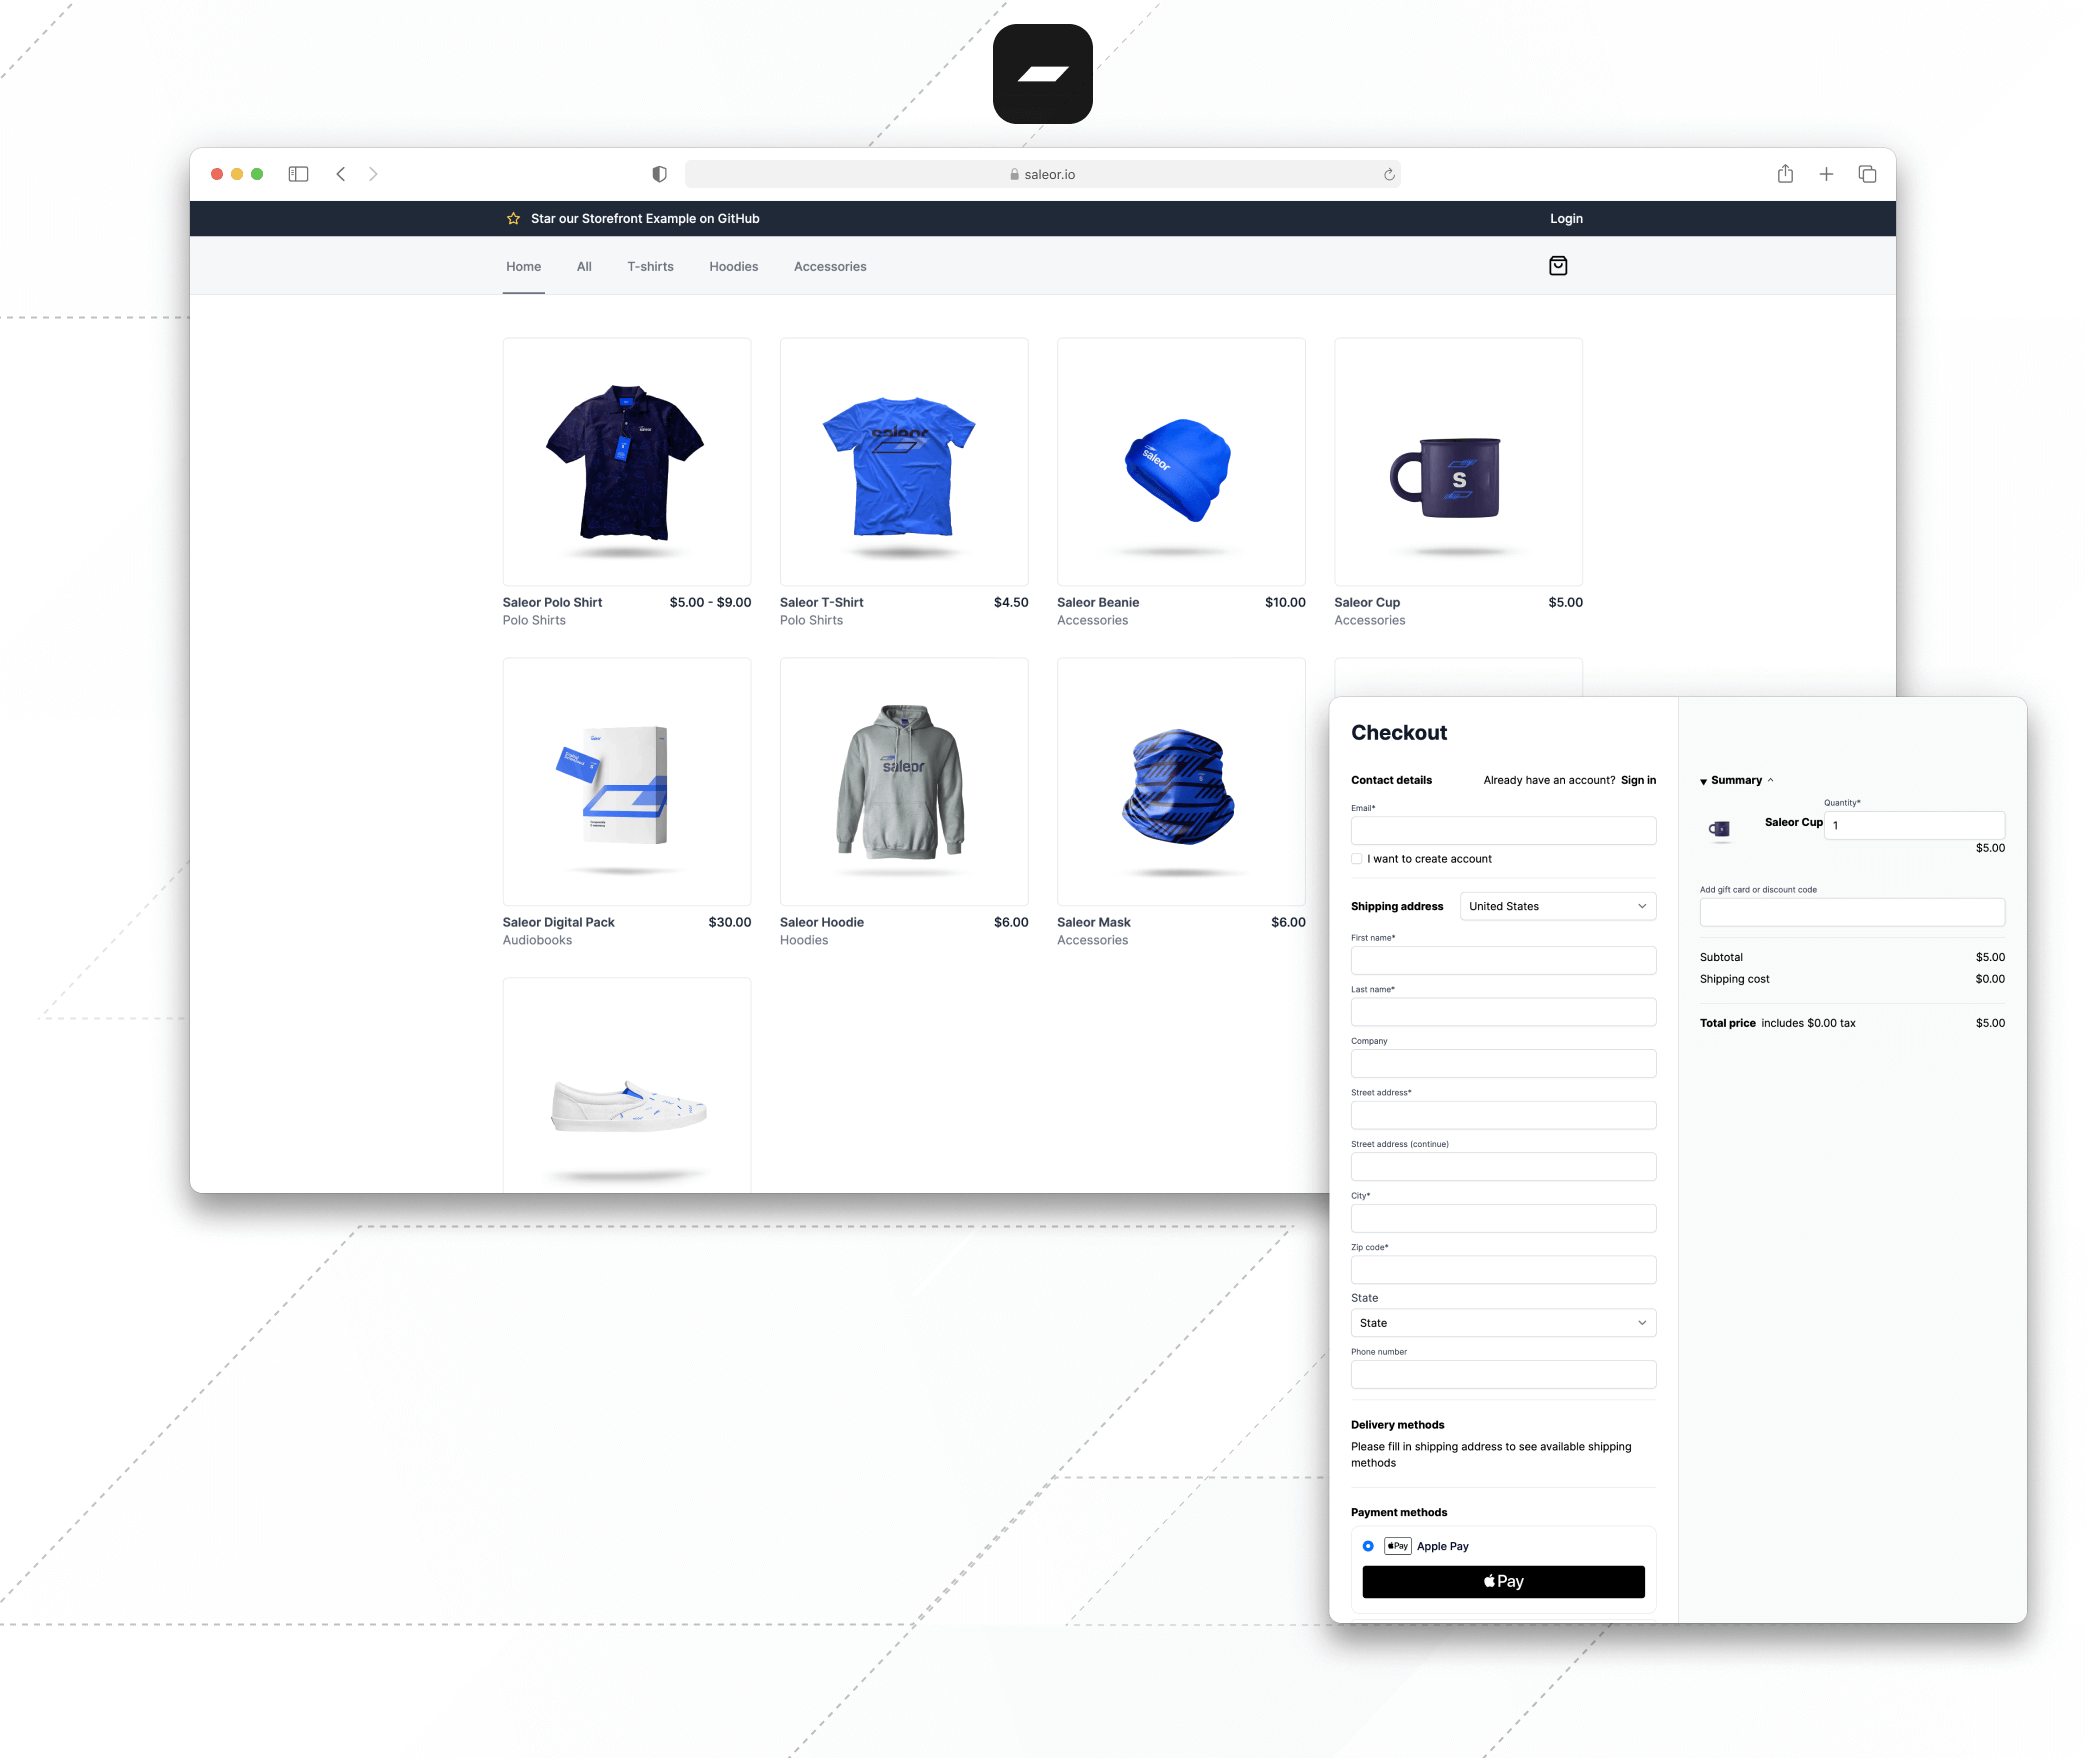
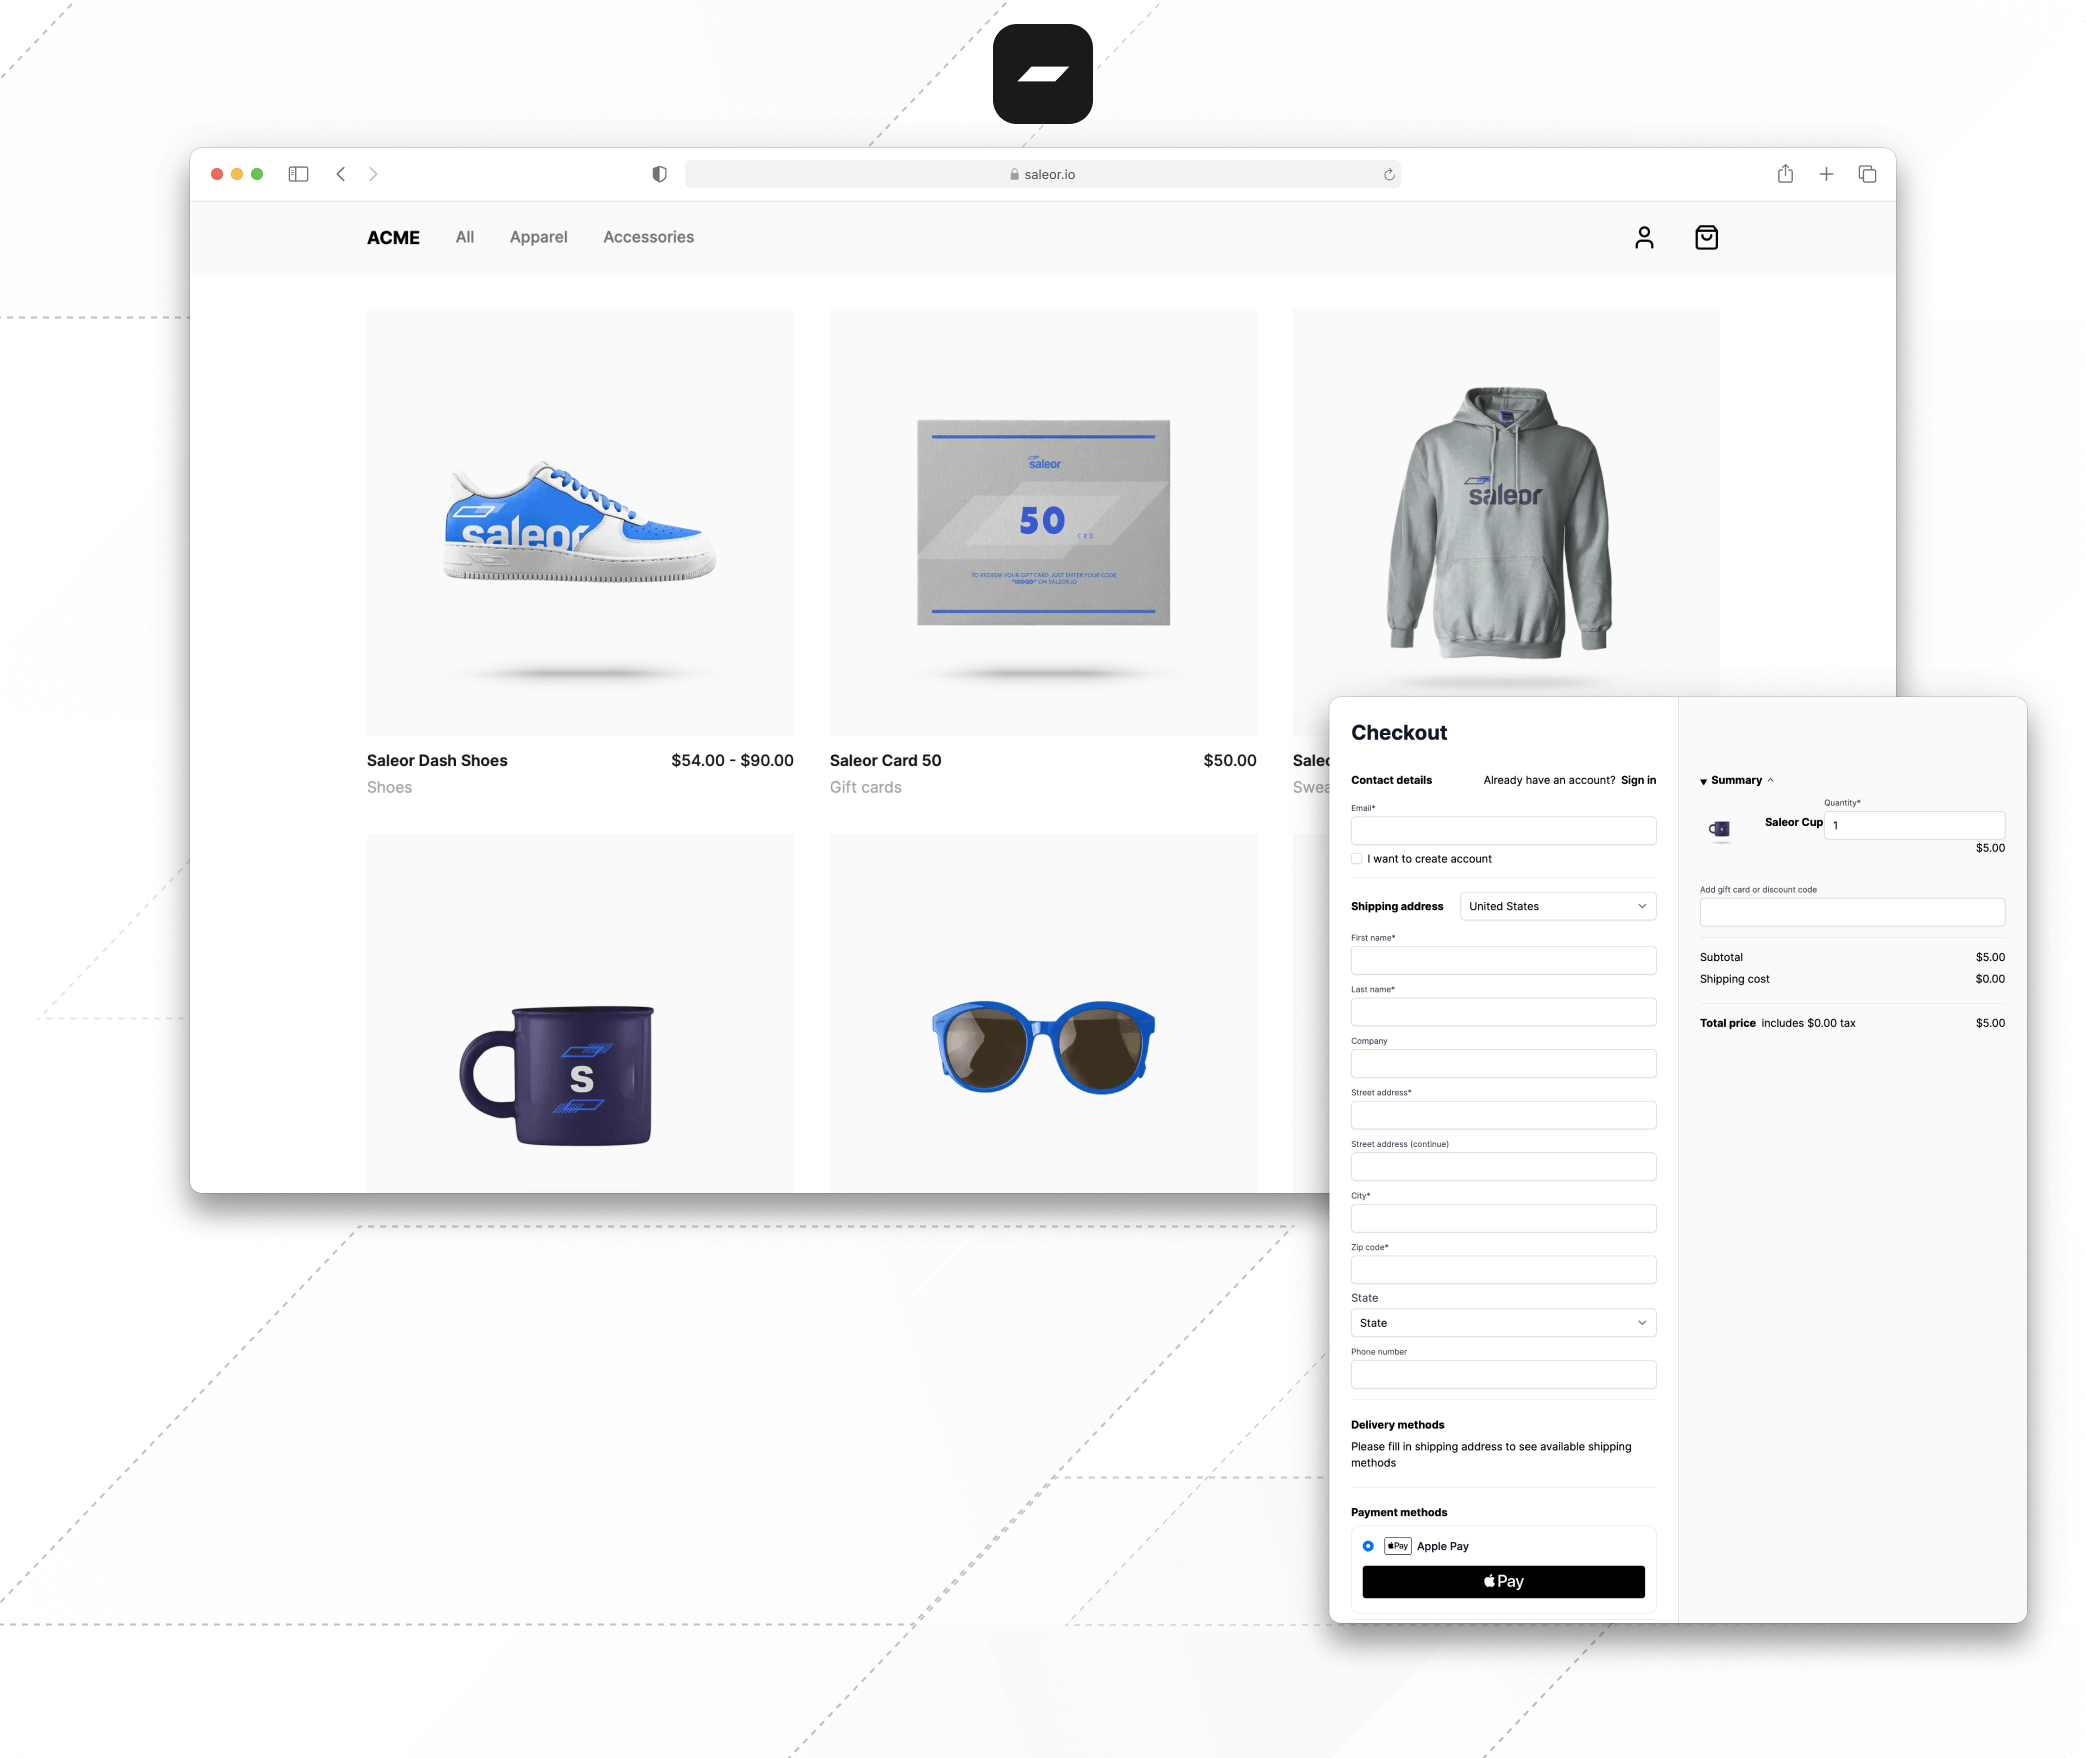
Update readme screenshot and deploy button

diff --git a/README.md b/README.md
@@ -1,4 +1,4 @@
-[![Deploy with Vercel](https://vercel.com/button)](https://vercel.com/new/clone?repository-url=https%3A%2F%2Fgithub.com%2Fsaleor%2Fstorefront&env=NEXT_PUBLIC_SALEOR_API_URL,NEXT_PUBLIC_STOREFRONT_URL&project-name=my-saleor-storefront&repository-name=my-saleor-storefront)
+[![Deploy with Vercel](https://vercel.com/button)](https://vercel.com/new/clone?repository-url=https%3A%2F%2Fgithub.com%2Fsaleor%2Fstorefront&env=NEXT_PUBLIC_SALEOR_API_URL&envDescription=Full%20Saleor%20GraphQL%20endpoint%20URL%2C%20eg%3A%20https%3A%2F%2Fstorefront1.saleor.cloud%2Fgraphql%2F&project-name=my-saleor-storefront&repository-name=my-saleor-storefront&demo-title=Saleor%20Next.js%20Storefront&demo-description=Starter%20pack%20for%20building%20performant%20e-commerce%20experiences%20with%20Saleor.&demo-url=https%3A%2F%2Fstorefront.saleor.io%2F&demo-image=https%3A%2F%2Fstorefront-d5h86wzey-saleorcommerce.vercel.app%2Fopengraph-image.png%3F4db0ee8cf66e90af)
 [![Storefront Demo](https://img.shields.io/badge/VIEW%20DEMO-DFDFDF?style=for-the-badge)](https://storefront.saleor.io)
 
 ![Nextjs Storefront](./screenshot.png)
